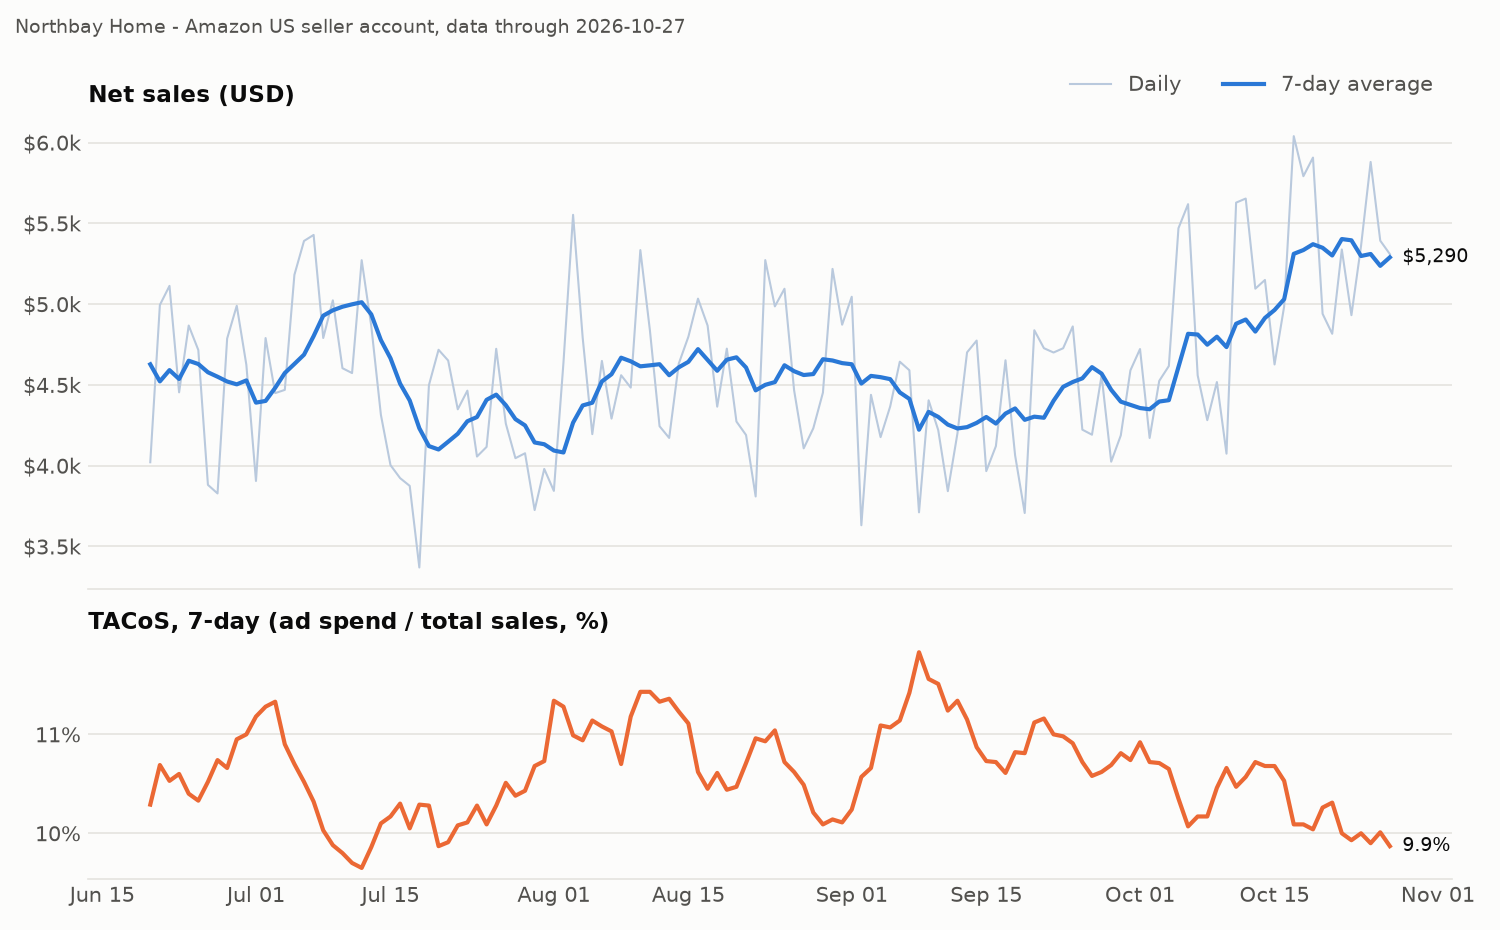
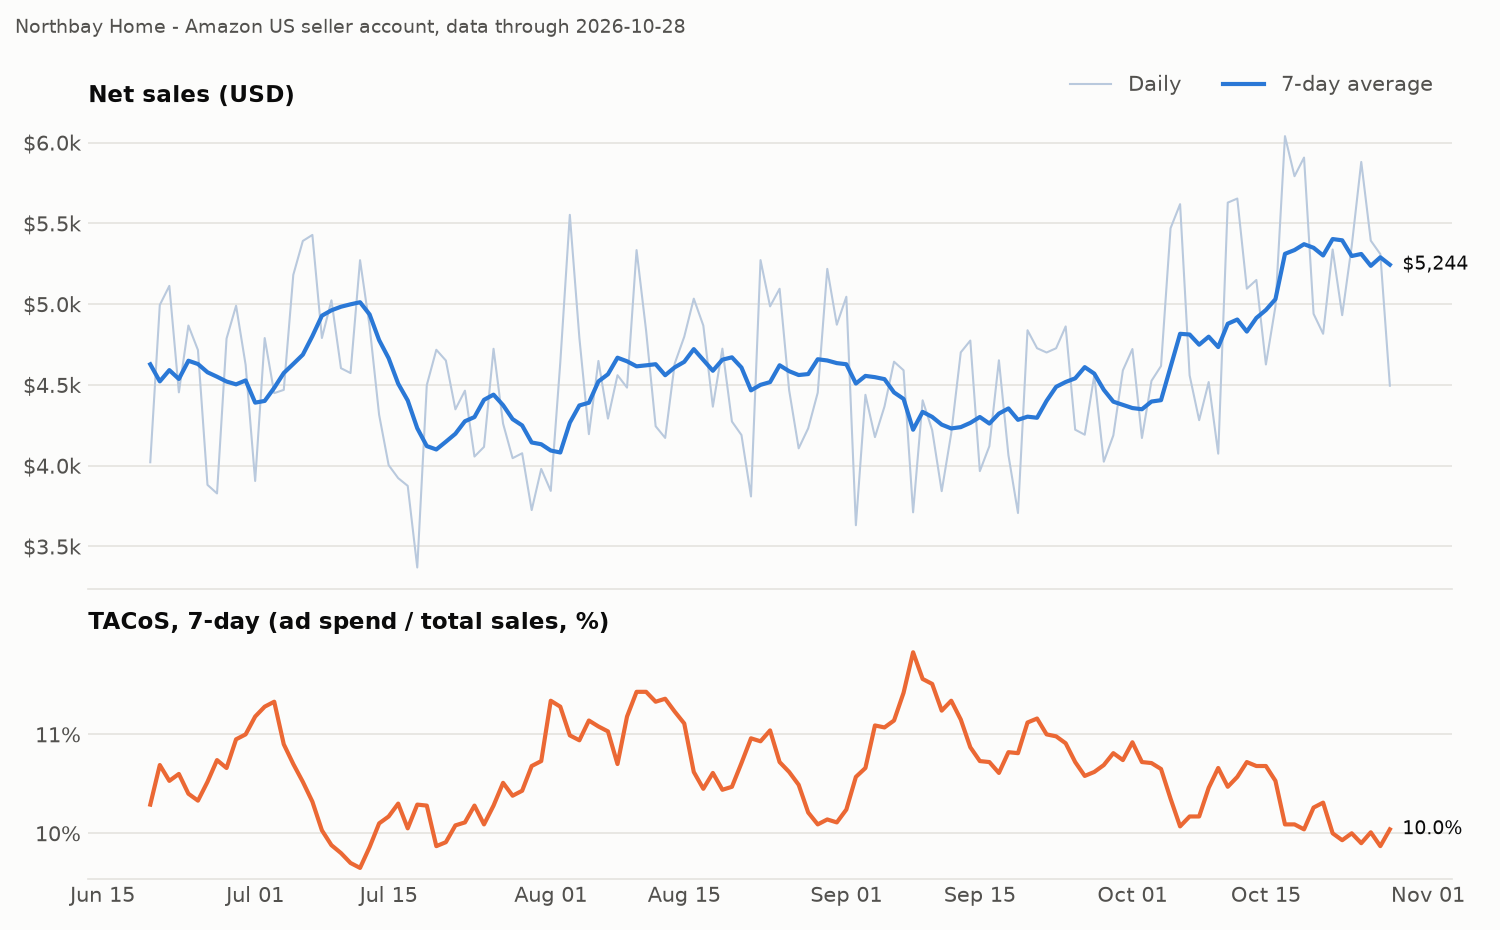
data: daily refresh through 2026-10-28

diff --git a/README.md b/README.md
@@ -13,33 +13,33 @@ GitHub Actions runs the whole thing every morning, commits the new data, and ref
 ## Today's numbers
 
 <!-- KPI:START -->
-**Data through 2026-10-27** · last pipeline run 2026-10-28 19:38 UTC
+**Data through 2026-10-28** · last pipeline run 2026-10-29 19:42 UTC
 
 | Last 7 days | Value |
 |---|---|
-| Net sales | $37,029 (-1.1% vs prior 7 days) |
-| Orders | 1,095 |
-| ACoS (ad spend / ad sales) | 34.0% |
-| TACoS (ad spend / total sales) | 9.9% |
-| Contribution margin after ads | 32.3% |
+| Net sales | $36,708 (-1.1% vs prior 7 days) |
+| Orders | 1,072 |
+| ACoS (ad spend / ad sales) | 34.6% |
+| TACoS (ad spend / total sales) | 10.0% |
+| Contribution margin after ads | 32.1% |
 
 **Inventory alerts**
 
 | SKU | Product | On hand | Days of cover | Days until restock | Status |
 |---|---|---|---|---|---|
-| NBH-HM-002 | Under-Bed Storage Bags (3 pk) | 18 | 1.5 | 5 | Stockout risk |
-| NBH-PT-001 | Dog Lick Mat (2 pk) | 184 | 6.0 | 15 | Stockout risk |
-| NBH-PT-002 | Cat Window Perch | 84 | 9.4 | 13 | Stockout risk |
+| NBH-HM-002 | Under-Bed Storage Bags (3 pk) | 9 | 0.7 | 4 | Stockout risk |
+| NBH-PT-001 | Dog Lick Mat (2 pk) | 153 | 5.0 | 14 | Stockout risk |
+| NBH-PT-002 | Cat Window Perch | 69 | 7.4 | 12 | Stockout risk |
 
 **Campaigns losing money (last 30 days)** · 8 campaign(s) flagged to scale up
 
 | Campaign | ACoS | Break-even ACoS | Ad profit | Action |
 |---|---|---|---|---|
-| SP / NBH-KT-002 / Phrase | 72.3% | 41.0% | $-338 | Cut bids: losing money |
-| SP / NBH-KT-001 / Phrase | 64.0% | 43.2% | $-274 | Cut bids: losing money |
-| SP / NBH-PT-003 / Phrase | 59.8% | 47.1% | $-187 | Cut bids: losing money |
-| SP / NBH-OF-001 / Auto | 43.4% | 39.0% | $-51 | Cut bids: losing money |
-| SP / NBH-HM-002 / Phrase | 45.2% | 41.1% | $-38 | Cut bids: losing money |
+| SP / NBH-KT-002 / Phrase | 74.5% | 41.0% | $-352 | Cut bids: losing money |
+| SP / NBH-KT-001 / Phrase | 62.2% | 43.2% | $-258 | Cut bids: losing money |
+| SP / NBH-PT-003 / Phrase | 58.1% | 47.1% | $-164 | Cut bids: losing money |
+| SP / NBH-OF-001 / Auto | 42.1% | 39.0% | $-37 | Cut bids: losing money |
+| SP / NBH-HM-002 / Phrase | 44.6% | 41.1% | $-33 | Cut bids: losing money |
 <!-- KPI:END -->
 
 ![Dashboard](reports/dashboard.png)
